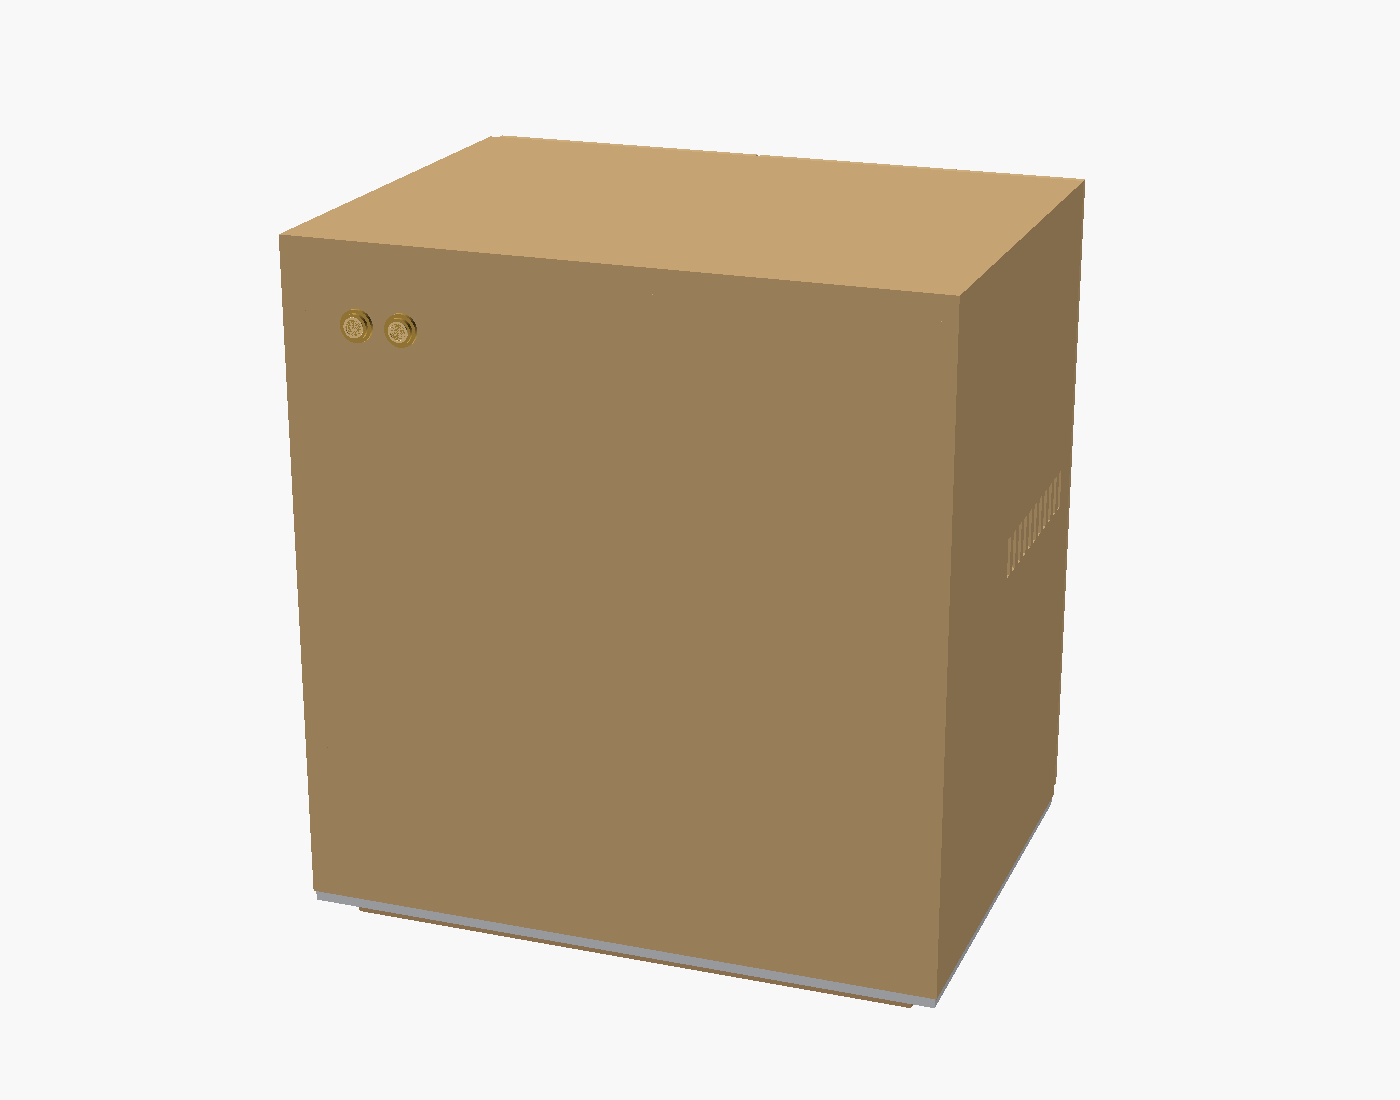
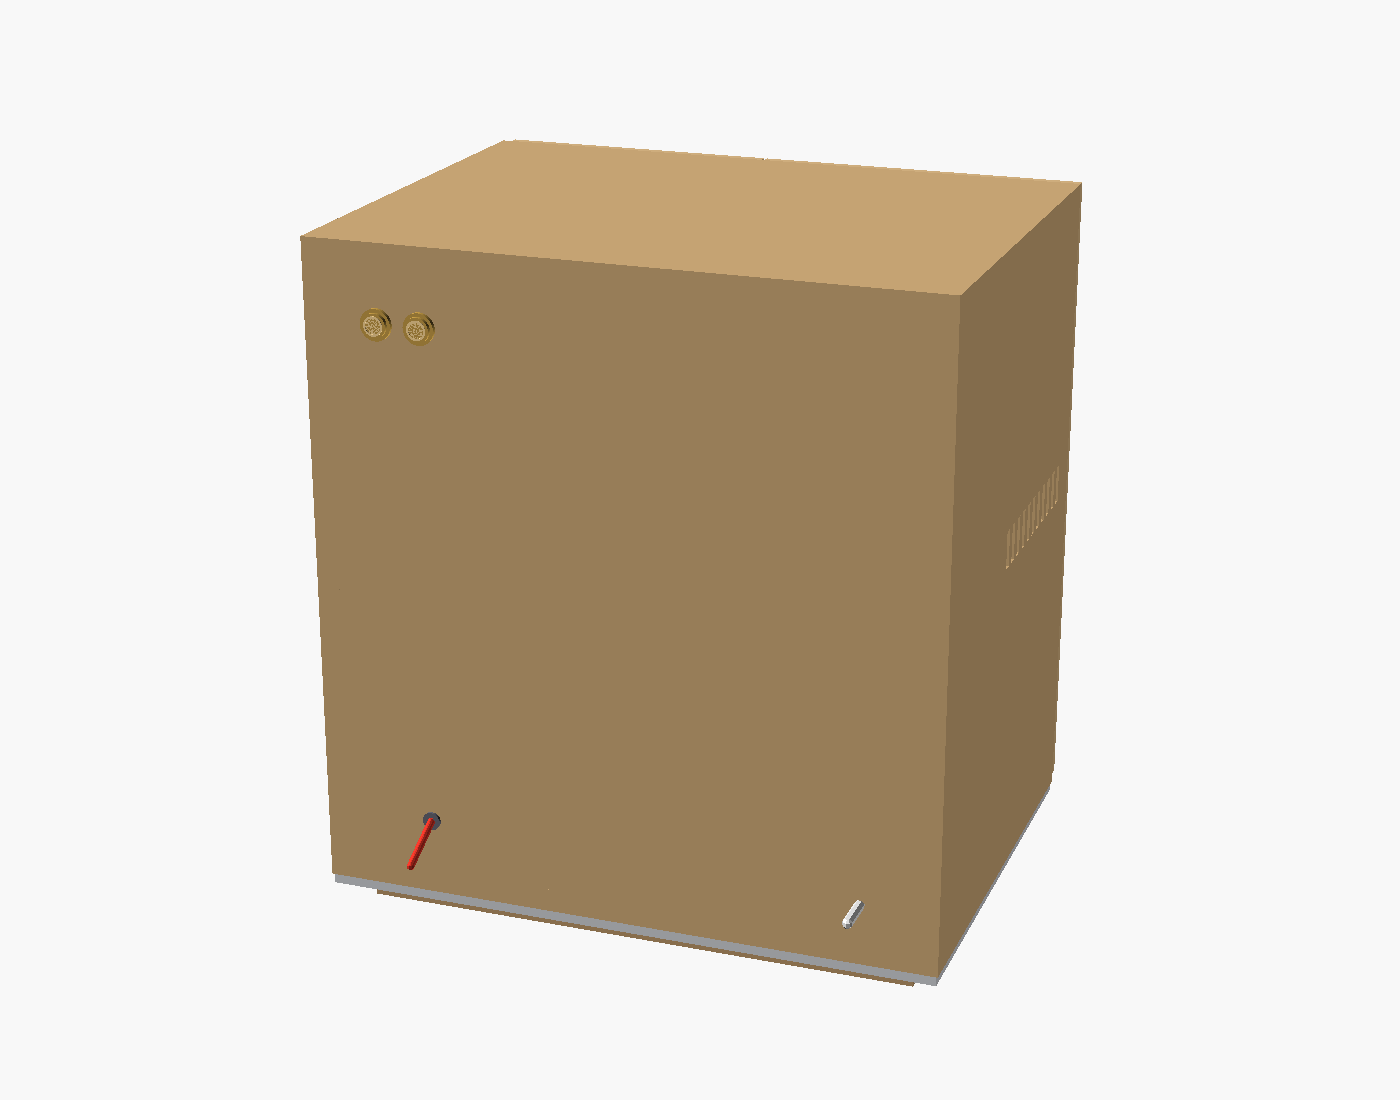
coffee-machine: draft 2.1, open kettle door and full electronics/wiring
- Kettle door swings about its hinge axis (door_angle); opened views use 105 deg
- Controller boards on the tray, main relay, fuse, DC jack, kettle relay outlet
- Sensors placed: PT1000 x2, heater NTC and cutouts, ToF, door/drawer reeds
- Wiring runs colour-coded by circuit through grommet holes in the rear divider
- README: power path, wiring table, ESP32-S3 pin plan; BOM wiring lines

Claude-Session: https://claude.ai/code/session_01TaKuEZ4t4MxTB6H2WfYEDp

diff --git a/coffee-machine/viewer/index.html b/coffee-machine/viewer/index.html
@@ -116,9 +116,9 @@ dl.info dd { margin: 0; }
 
 <div class="wrap">
   <header>
-    <span class="eyebrow">creations / coffee-machine · draft 2 · 2026-11-07</span>
+    <span class="eyebrow">creations / coffee-machine · draft 2.1 · 2026-11-07</span>
     <h1>Pour-over machine, draft 2</h1>
-    <p class="lede">An automatic V60-02 brewer with everything but the carafe hidden. The kettle sits behind a push-to-open door, the V60 rides in a hidden drawer, brass Power and Brew buttons sit on the back, and a recessed plinth lets an LED strip glow onto the counter. Drag to orbit, pinch or scroll to zoom, and right-drag or two-finger drag to pan.</p>
+    <p class="lede">An automatic V60-02 brewer with everything but the carafe hidden. The kettle sits behind a push-to-open door, the V60 rides in a hidden drawer, brass Power and Brew buttons sit on the back, and a recessed plinth lets an LED strip glow onto the counter. Every board, sensor and wiring run is modelled: untick Cabinet to see them. Drag to orbit, pinch or scroll to zoom, and right-drag or two-finger drag to pan.</p>
     <div class="figs">
       <div class="fig"><b class="mono">478 × 378 × 533</b><span>W × D × H mm incl. fronts and plinth · 18.8 × 14.9 × 21.0 in</span></div>
       <div class="fig"><b class="mono" id="fig-total">$—</b><span>estimated BOM total</span></div>

diff --git a/coffee-machine/src/export_viewer.py b/coffee-machine/src/export_viewer.py
@@ -47,6 +47,17 @@ GROUPS = {
     "[0.78, 0.62, 0.28]": "Brass buttons",
     "[1, 0.86, 0.6]": "LED glow",
     "[0.82, 0.83, 0.85]": "Slides and LED channel",
+    "[0.95, 0.55, 0.15]": "Sensors",
+    "[0.12, 0.3, 0.6]": "Electronics",
+    "[0.08, 0.08, 0.1]": "Electronics",
+    "[0.6, 0.1, 0.5]": "Electronics",
+    "[0.4, 0.4, 0.45]": "Power hardware (relay, fuse, DC jack)",
+    "[0.18, 0.18, 0.2]": "Kettle relay outlet (mains, listed)",
+    "[0.85, 0.2, 0.15]": "Wiring: 24 V and heater power",
+    "[0.95, 0.8, 0.2]": "Wiring: sensors",
+    "[0.5, 0.35, 0.7]": "Wiring: steppers",
+    "[0.2, 0.75, 0.8]": "Wiring: switches, buttons, LEDs",
+    "[0.92, 0.92, 0.92]": "Wiring: mains cords",
 }
 
 PARTS = {
@@ -125,7 +136,7 @@ CATEGORIES = [
                         "heater", "cutout", "heater block", "insulation", "v60"]),
     ("Sensing", ["pt1000", "max31865", "ntc", "load cell", "hx711", "tof", "reed"]),
     ("Control and motion", ["esp32", "stepper", "tmc2209", "mosfet", "nozzle mechanism",
-                            "power supply", "buck", "dc jack", "button", "relay", "level shifter"]),
+                            "power supply", "buck", "dc jack", "button", "relay", "level shifter", "wire", "cable", "grommet", "sleeving"]),
     ("Body, doors and lighting", ["plywood", "oil", "printed", "fasteners", "hinge", "forstner", "latch", "slides", "led strip", "led channel"]),
 ]
 
@@ -150,7 +161,7 @@ def main():
     OUT.mkdir(exist_ok=True)
     with tempfile.TemporaryDirectory() as t:
         build_assembly(Path(t))
-        build_assembly(Path(t), "assembly_open", ("-D", "drawer_open=160", "-D", "door_open=true"))
+        build_assembly(Path(t), "assembly_open", ("-D", "drawer_open=160", "-D", "door_angle=105"))
     build_parts()
     build_bom()
     # Artifact pages don't serve .glb, so ship each model as base64 text too.

diff --git a/coffee-machine/README.md b/coffee-machine/README.md
@@ -47,6 +47,53 @@ The kettle and the 24 V supply are the only mains-powered parts, and both are bo
 | Hot lines | Routed inside the body in insulated sleeve | n/a |
 | Kettle heat and steam in a closed bay | Intake slots in the base overhang, exhaust slots high in the left side | Door switch: remote and timed starts need the kettle door closed |
 
+## Electronics and wiring (draft)
+
+All control electronics sit on the PETG tray at the top of the rear tech strip, behind the rear divider and above any water. Cables reach the front through 20 mm grommet holes in the divider. The model shows each run, colored by circuit (see the `assembly_wiring` render and the viewer's layer toggles).
+
+![Wiring](images/assembly_wiring.png)
+
+**Power path:** 24 V brick → panel DC jack (back) → 10 A blade fuse → main relay (coil switched by the latching brass **Power** button) → 24 V bus to the heater MOSFET, 3× TMC2209, LED strip, button rings and the 24→5 V buck that feeds the ESP32 and sensor boards. The kettle's mains path never enters our wiring. The kettle base plugs into the listed relay outlet, which plugs into the wall, and the ESP32 drives only that outlet's low-voltage control input.
+
+| Circuit | From (tray) | To | Cable | Notes |
+|---|---|---|---|---|
+| 24 V in | DC jack | fuse → relay → tray bus | 16 AWG pair | Only the relay coil runs through the brass Power button |
+| Heater | MOSFET module | 24 V cartridge via 2× 120 °C cutouts in series | 16 AWG silicone | Cutouts break heater power without the controller |
+| Heater NTC | ESP32 ADC | NTC in heater block | 22 AWG pair, fibreglass sleeve | |
+| Kettle temp | MAX31865 #1 | PT1000 on the dip wand | 3-wire shielded | |
+| Brew temp | MAX31865 #2 | PT1000 in the 316 tee before the nozzle | 3-wire shielded | |
+| Flow | ESP32 interrupt pin | Digmesa Nano Inox | 3-core (V+, GND, pulse) | Pulse is open collector: 10 k pull-up to 3.3 V |
+| Carafe weight | HX711 #1 | 5 kg load cell under the drip tray | 4-core | |
+| Kettle weight | HX711 #2 | 5 kg load cell under the kettle platform | 4-core | Water remaining, for the start interlocks |
+| Cone check and bed height | ESP32 I2C | VL53L1X in the nozzle shroud | 4-core | |
+| Door closed | ESP32 input | Reed switch on the bay divider front | 2-core | Magnet in the kettle door |
+| Drawer closed | ESP32 input | Reed switch at the rear of the drawer bay | 2-core | Magnet in the drawer tray |
+| Pump | TMC2209 #1 | Peristaltic pump stepper | 4-core stepper | |
+| Nozzle rotate, radial | TMC2209 #2, #3 | Two NEMA 17 pancake steppers | 4-core stepper | Concept until the mechanism is designed |
+| Base glow | Level shifter | 24 V addressable strip under the base | 3-core (24 V, GND, data) | Through a hole in the base inside the plinth |
+| Buttons | ESP32 input + 24 V | Brass Power and Brew on the back | 4-core each | Brew's LED ring is driven through a small transistor |
+| Kettle | ESP32 output | Relay outlet control input (3–48 V DC) | 2-core | Outlet is off whenever the controller is off |
+
+**ESP32-S3 pin plan** (DevKitC-1-N8 without octal PSRAM, so GPIO35–37 are free; VERIFY against the board you buy):
+
+| Function | GPIO |
+|---|---|
+| SPI SCK, MOSI, MISO (MAX31865 ×2) | 12, 11, 13 |
+| MAX31865 chip selects | 10, 9 |
+| I2C SDA, SCL (VL53L1X) | 8, 18 |
+| HX711 carafe DT, SCK | 4, 5 |
+| HX711 kettle DT, SCK | 6, 7 |
+| Heater NTC (ADC1) | 1 |
+| Flow meter pulse | 2 |
+| Heater PWM | 14 |
+| Pump STEP, DIR | 15, 16 |
+| Nozzle rotate STEP, DIR | 17, 21 |
+| Nozzle radial STEP, DIR | 42, 41 |
+| Stepper enable (shared), TMC UART | 40, 39 |
+| LED strip data (via 74AHCT125) | 38 |
+| Door reed, drawer reed, Brew button | 35, 36, 37 |
+| Brew LED ring, kettle relay outlet | 48, 47 |
+
 ## Key dimensions (draft 2)
 
 All values live in `src/params.scad`.
@@ -136,7 +183,7 @@ Vent slots: 8 mm wide in the base overhang under the kettle bay (outside the pli
 - Check the 4 mm gap between the carafe top and the drawer front against your real carafe (handle and lid).
 - Write the firmware: ESP32 web app, recipes, PID loops and interlocks.
 - Confirm the Brew-button default recipe (assumed 15 g to 250 g at 93 °C).
-- The BOM's estimated total is about $1,059. The biggest costs are the CNC heater block, pump, PA12 prints and plywood.
+- The BOM's estimated total is about $1,107. The biggest costs are the CNC heater block, pump, PA12 prints and plywood.
 
 ## Rebuilding exports
 
@@ -148,3 +195,4 @@ Vent slots: 8 mm wide in the base overhang under the kettle bay (outside the pli
 
 - 2026-11-07: started. Settled on an automatic pour-over brewer with a V60-02 insert, a plain kettle in a side bay switched by a relay outlet, a 24 V trim heater, PT1000 sensors, a Digmesa flow meter, three load cells, and phone plus button control. Draft 1 of the CAD and BOM is done.
 - 2026-11-07: draft 2. Everything but the carafe is now hidden: kettle door on concealed hinges, a cone drawer with a flush front, brass Power/Brew buttons on the back, and a recessed plinth with a down-facing LED strip. The cone load cell is gone: bed weight is now computed as flow-meter water in minus carafe weight out, and a ToF sensor in the nozzle shroud checks the cone is in place.
+- 2026-11-07: draft 2.1. Kettle door modelled swung open on its hinges; all electronics, sensors and wiring runs added to the model; wiring table and ESP32 pin plan in the notes.
